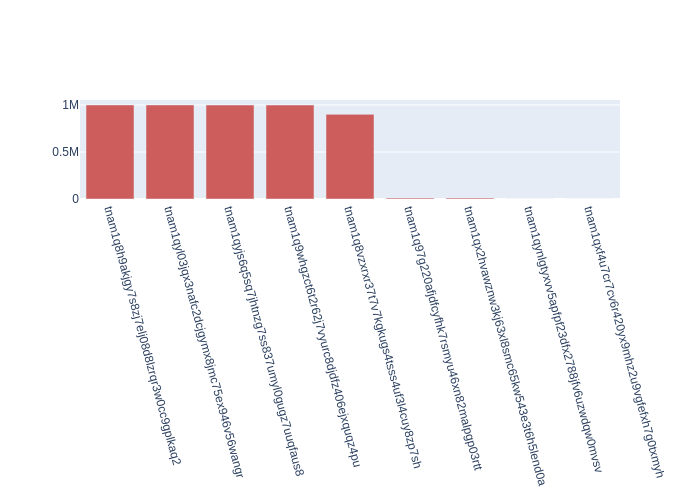
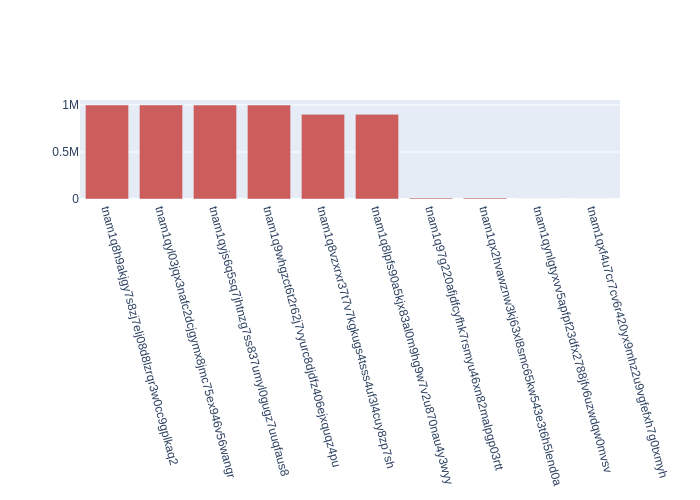
[skip ci] rebuild genesis readme

diff --git a/genesis/README.md b/genesis/README.md
@@ -51,6 +51,14 @@ Lorem ipsum dolor sit amet, consectetur adipiscing elit. Nulla mauris magna, bla
     - email: `hey@mail.com`
     - website: `https://mandragora.io`
 
+- address: `tnam1q8lpfs90a5kjx83al0m9hg9w7v2u870nau4y3wyy`
+    - alias: `Unknown alias`
+    - commission: `5.0%`
+    - max commission rate change: `1.0%`
+    - total voting power: `900000.0`
+    - email: `nick@totalgaming.io`
+    - website: `Unknown website`
+
 - address: `tnam1qyjs6q5sq7jhtnzg7ss837umyl0gugz7uuqfaus8`
     - alias: `Unknown alias`
     - commission: `5.0%`
